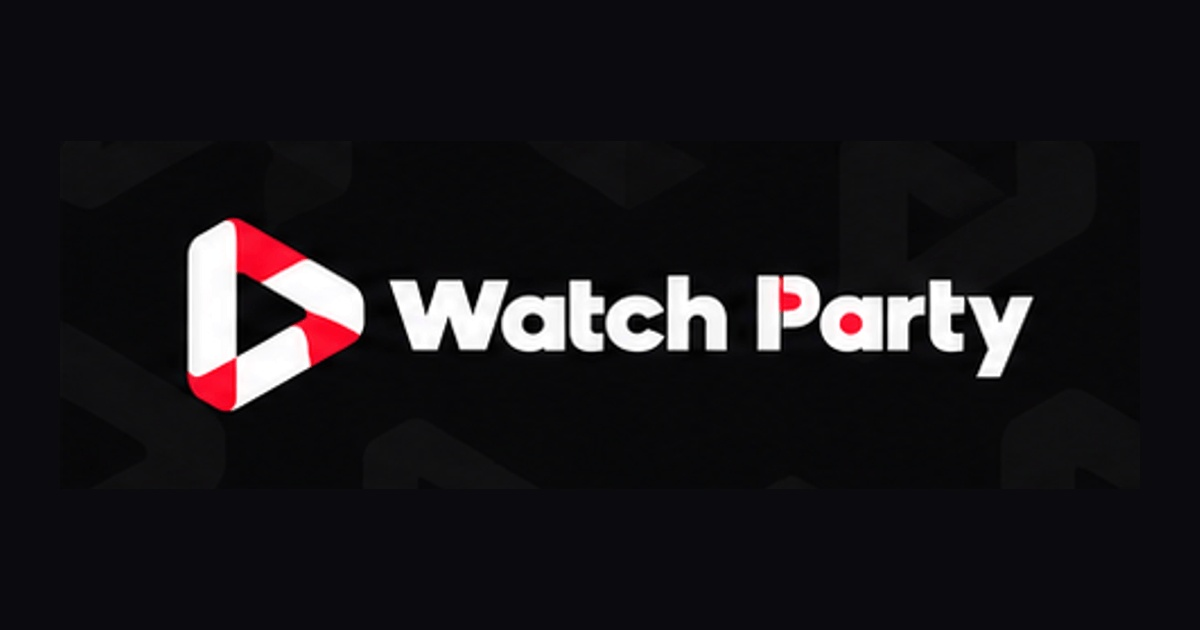
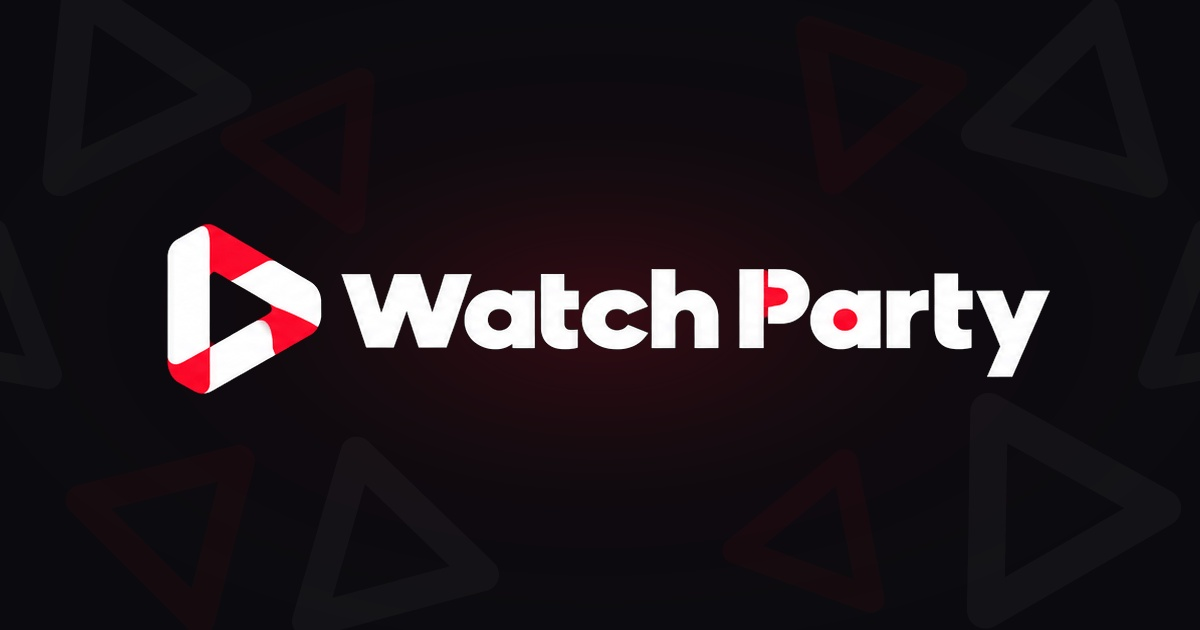
fix(seo): full-bleed watermark og-image without black sidebars, align h1 and title for #1 watchparty ranking

Changed region(s): [[0.1233, 0.3317, 0.8942, 0.6635]]

diff --git a/client/index.html b/client/index.html
@@ -12,8 +12,8 @@
     <meta name="viewport" content="width=device-width, initial-scale=1.0" />
     
     <!-- Primary Meta Tags -->
-    <title>WatchParty — Watch Movies, Shows &amp; YouTube Together in Sync</title>
-    <meta name="title" content="WatchParty — Watch Movies, Shows &amp; YouTube Together in Sync" />
+    <title>WatchParty — #1 Free Watch Party to Stream Movies &amp; YouTube Together</title>
+    <meta name="title" content="WatchParty — #1 Free Watch Party to Stream Movies &amp; YouTube Together" />
     <meta name="description" content="WatchParty (watchparty.website) is the #1 free platform to watch movies, anime, OTT streams, and YouTube together in perfect frame-locked sync. Screen share any browser tab, chat live, and video call friends. 100% free with no downloads or extensions required!" />
     <meta name="keywords" content="watchparty, watch party, watch party website, watch movies together online, sync video with friends, netflix watch party free, watch anime together, youtube watch party, stream together online, virtual movie night, screen share watch party, synchronized player, watchparty app, teleparty alternative, rave alternative" />
     <meta name="author" content="WatchParty" />
@@ -23,7 +23,7 @@
     <meta property="og:type" content="website" />
     <meta property="og:url" content="https://watchparty.website/" />
     <meta property="og:site_name" content="WatchParty" />
-    <meta property="og:title" content="WatchParty — Watch Movies, Shows &amp; YouTube Together in Sync" />
+    <meta property="og:title" content="WatchParty — #1 Free Watch Party to Stream Movies &amp; YouTube Together" />
     <meta property="og:description" content="Watch movies, anime, OTT streams, and YouTube together in real-time frame lock. Screen share any tab, chat live, and video call friends. 100% free with zero downloads!" />
     <meta property="og:image" content="https://watchparty.website/og-image.png" />
     <meta property="og:image:secure_url" content="https://watchparty.website/og-image.png" />
@@ -36,7 +36,7 @@
     <!-- Twitter / X Card -->
     <meta name="twitter:card" content="summary_large_image" />
     <meta name="twitter:url" content="https://watchparty.website/" />
-    <meta name="twitter:title" content="WatchParty — Watch Movies, Shows &amp; YouTube Together in Sync" />
+    <meta name="twitter:title" content="WatchParty — #1 Free Watch Party to Stream Movies &amp; YouTube Together" />
     <meta name="twitter:description" content="Watch movies, anime, OTT streams, and YouTube together in real-time frame lock. Screen share any tab, chat live, and video call friends. 100% free with zero downloads!" />
     <meta name="twitter:image" content="https://watchparty.website/og-image.png" />
     <meta name="twitter:image:alt" content="WatchParty — Watch Movies &amp; YouTube Together in Real-Time Sync" />

diff --git a/client/src/pages/home/Hero.jsx b/client/src/pages/home/Hero.jsx
@@ -184,7 +184,7 @@ export const Hero = ({
           {/* Headline */}
           <h1 className="font-heading hero-title">
             <span style={{ color: "#FFFFFF", display: "block" }}>
-              {isHinglish ? "Saath Mein Dekhein." : "Watch Together."}
+              {isHinglish ? "Real Watch Party." : "The Ultimate Watch Party."}
             </span>
             <span
               style={{
